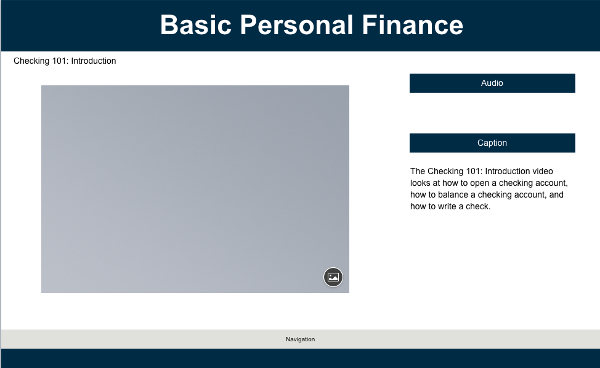
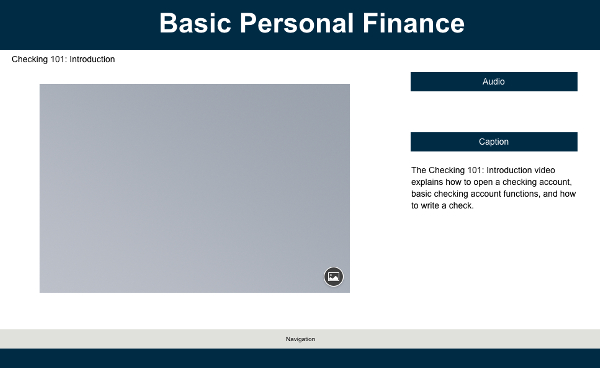
Added all atm/debit images, quiz images, and correct some grammaticaly errors

diff --git a/module1/page-10.html b/module1/page-10.html
@@ -23,7 +23,7 @@
 					<header>
 						<h1> ATM/Debit </h1>
 					</header>
-					<!--- put your content here --->
+					<img src="images/atm-debit.jpg" alt="ATM/Debit" title="Purpose of ATM/Debit."/>
 				</article>
 			</div>
 			<div id="aside-info">
@@ -38,7 +38,10 @@
 						<p id="aside-title-audio">Captions</p>
 					</header>
 				<div id="transcript">
-					<!--- include your transcript here --->
+					Learners will be able to describe basic ATM/debit card functions 
+					and how to effectively use ATM/debit card services after completing this section of the Banking module.  
+					The video defines key ATM/debit card terms and begins with questions students should consider,
+					when using an ATM/debit card.
 				</div>
 				</aside>
 			</div>

diff --git a/module1/page-06.html b/module1/page-06.html
@@ -40,9 +40,10 @@
 						<p id="aside-title-audio">Captions</p>
 					</header>
 				<div id="transcript">
-					Learners will watch the video as an introduction to understanding the importance of opening a checking account, 
-					knowing the basics of maintaining a checking account,
-					and the consequences of not maintaining your account properly.
+					Learners will be able to describe basic checking account functions, how to open an account,
+					and how to write a check after completing this section of the Banking module.  
+					The video defines key checking account terms and begins with questions students should consider
+					when opening and using a checking account.
 				</div>
 				</aside>
 			</div>

diff --git a/module1/page-09.html b/module1/page-09.html
@@ -23,7 +23,7 @@
 					<header>
 						<h1> Checking 103 </h1>
 					</header>
-					<img src="images/checking-103.jpg" alt="Checkinging Summary" title="Review opening account, balancing checkbook, and writing checks."/>
+					<img src="images/checking-103.jpg" alt="Checkinging Summary" title="Review opening account, checkbook functions, and writing checks."/>
 					
 					<!--- put your content here --->
 				</article>

diff --git a/module1/page-07.html b/module1/page-07.html
@@ -23,7 +23,7 @@
 					<header>
 						<h1> Checking 101 </h1>
 					</header>
-					<img src="images/checking-101.jpg" alt="Checking Introduction" title="Open account, balance checkbook, and write a check."/>
+					<img src="images/checking-101.jpg" alt="Checking Introduction" title="Open account, functions of account, and write a check."/>
 					<!--- put your content here --->
 				</article>
 			</div>

diff --git a/module1/page-13.html b/module1/page-13.html
@@ -23,7 +23,7 @@
 					<header>
 						<h1> ATM/Debit 103 </h1>
 					</header>
-					<!--- put your content here --->
+					<img src="images/atm-debit-103.jpg" alt="ATM/Debit Summary" title="Please review ATM/Debit functions, overdrafts, and balancing account"/>
 				</article>
 			</div>
 			<div id="aside-info">

diff --git a/module1/page-12.html b/module1/page-12.html
@@ -23,7 +23,7 @@
 					<header>
 						<h1>ATM/Debit 102</h1>
 					</header>
-					<!--- put your content here --->
+					<img src="images/atm-debit-102.jpg" alt="ATM/Debit Interactivity" title="Please record transaction and balance the account."/>
 				</article>
 			</div>
 			<div id="aside-info">

diff --git a/module2/quiz-2.html b/module2/quiz-2.html
@@ -38,7 +38,7 @@
 						<p id="aside-title-audio">Captions</p>
 					</header>
 				<div id="transcript">
-					<!--- include your transcript here --->
+					<img src="images/insurance-quiz.jpg" alt="Insurance Quiz" title="Earn at least 70% to receive credit."/>
 				</div>
 				</aside>
 			</div>

diff --git a/module1/page-11.html b/module1/page-11.html
@@ -23,7 +23,7 @@
 					<header>
 						<h1> ATM/Debit 101 </h1>
 					</header>
-					<!--- put your content here --->
+					<img src="images/atm-debit-101.jpg" alt="ATM/Debit Introduction" title="Using ATM/Debit functions and overdrafts."/>
 				</article>
 			</div>
 			<div id="aside-info">

diff --git a/module1/quiz-1.html b/module1/quiz-1.html
@@ -23,7 +23,7 @@
 					<header>
 						<h1>Banking: Quiz</h1>
 					</header>
-					<!--- put your content here --->
+					<img src="images/banking-quiz.jpg" alt="Banking Quiz" title="Earn at least 70% to receive credit."/>
 				</article>
 			</div>
 			<div id="aside-info">

diff --git a/module3/quiz-3.html b/module3/quiz-3.html
@@ -23,7 +23,7 @@
 					<header>
 						<h1>Credit Quiz</h1>
 					</header>
-					<!--- put your content here --->
+					<img src="images/credit-quiz.jpg" alt="Credit Quiz" title="Earn at least 70% to receive credit."/>
 				</article>
 			</div>
 			<div id="aside-info">

diff --git a/module1/page-08.html b/module1/page-08.html
@@ -12,7 +12,7 @@
 		<body>
 		<div id="banner">
 		<header>
-			<!--  <img src="" align=center alt="logo" title=""/> --> 
+		<!--  <img src="" align=center alt="logo" title=""/> --> 
 			Basic Personal Finance
 		</header>
 		</div>
